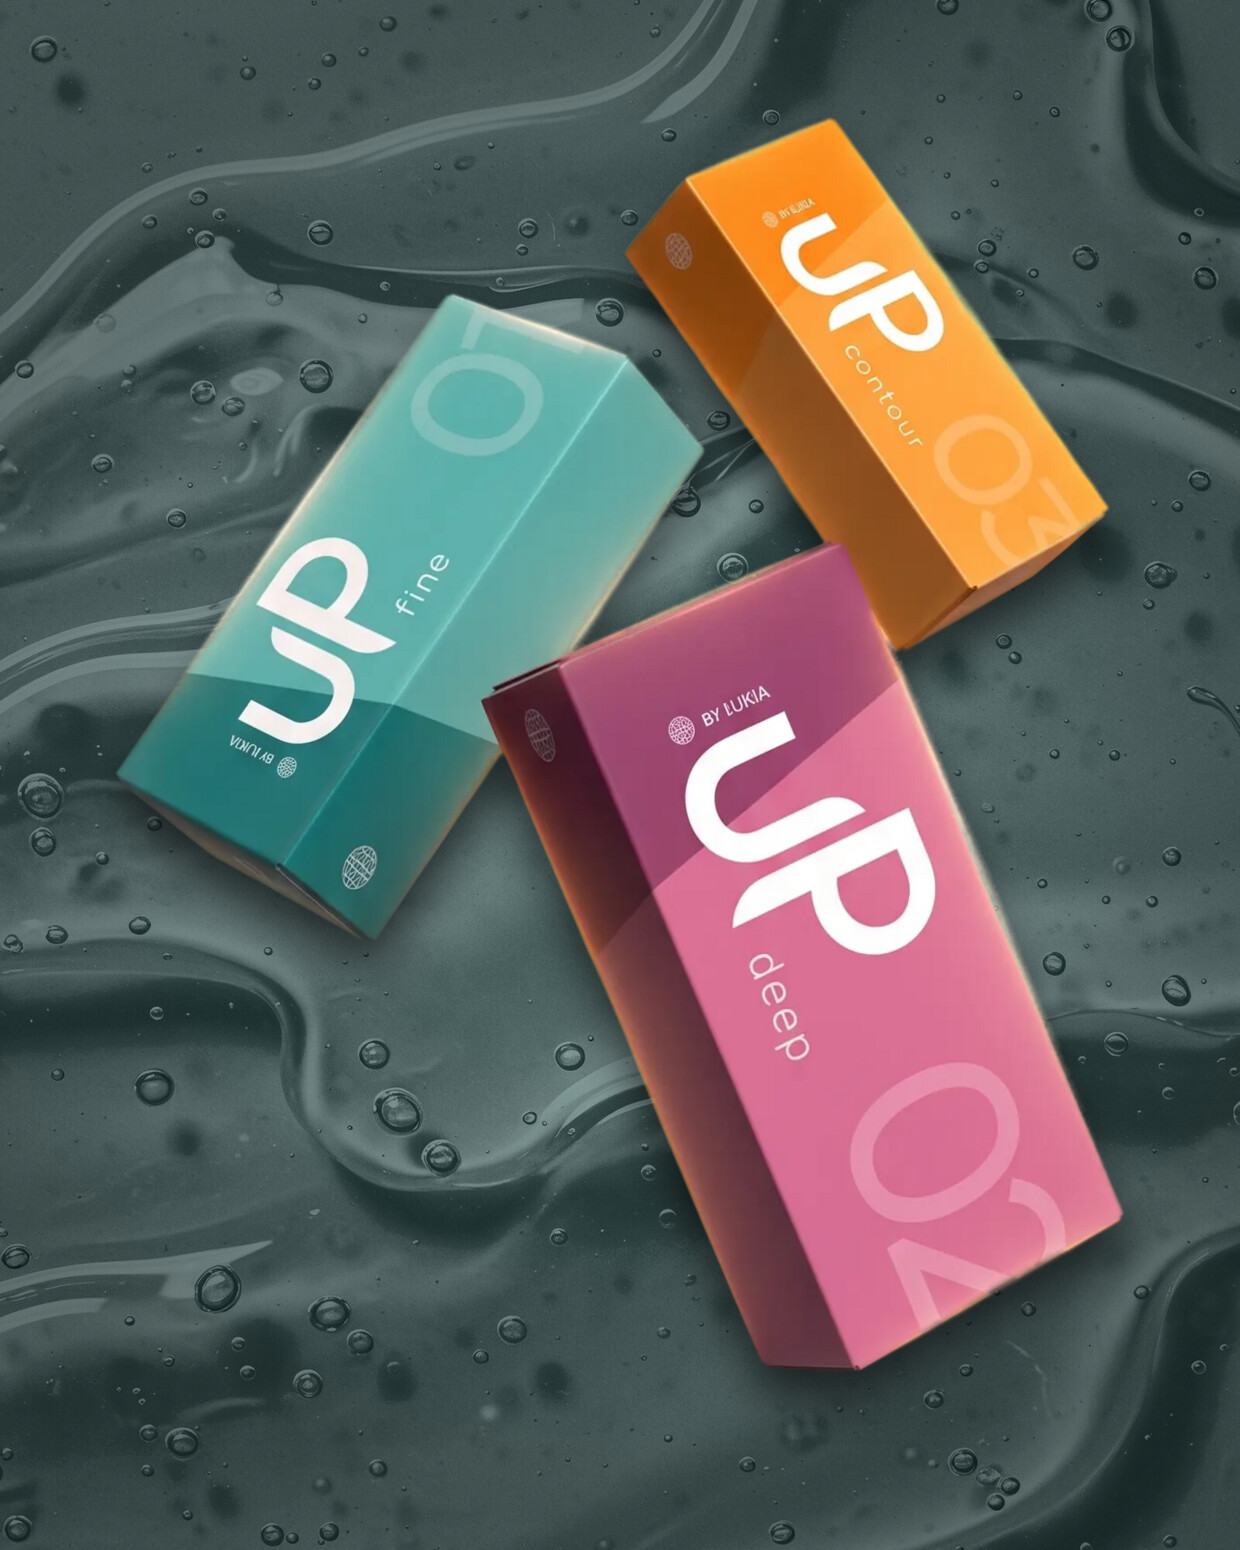
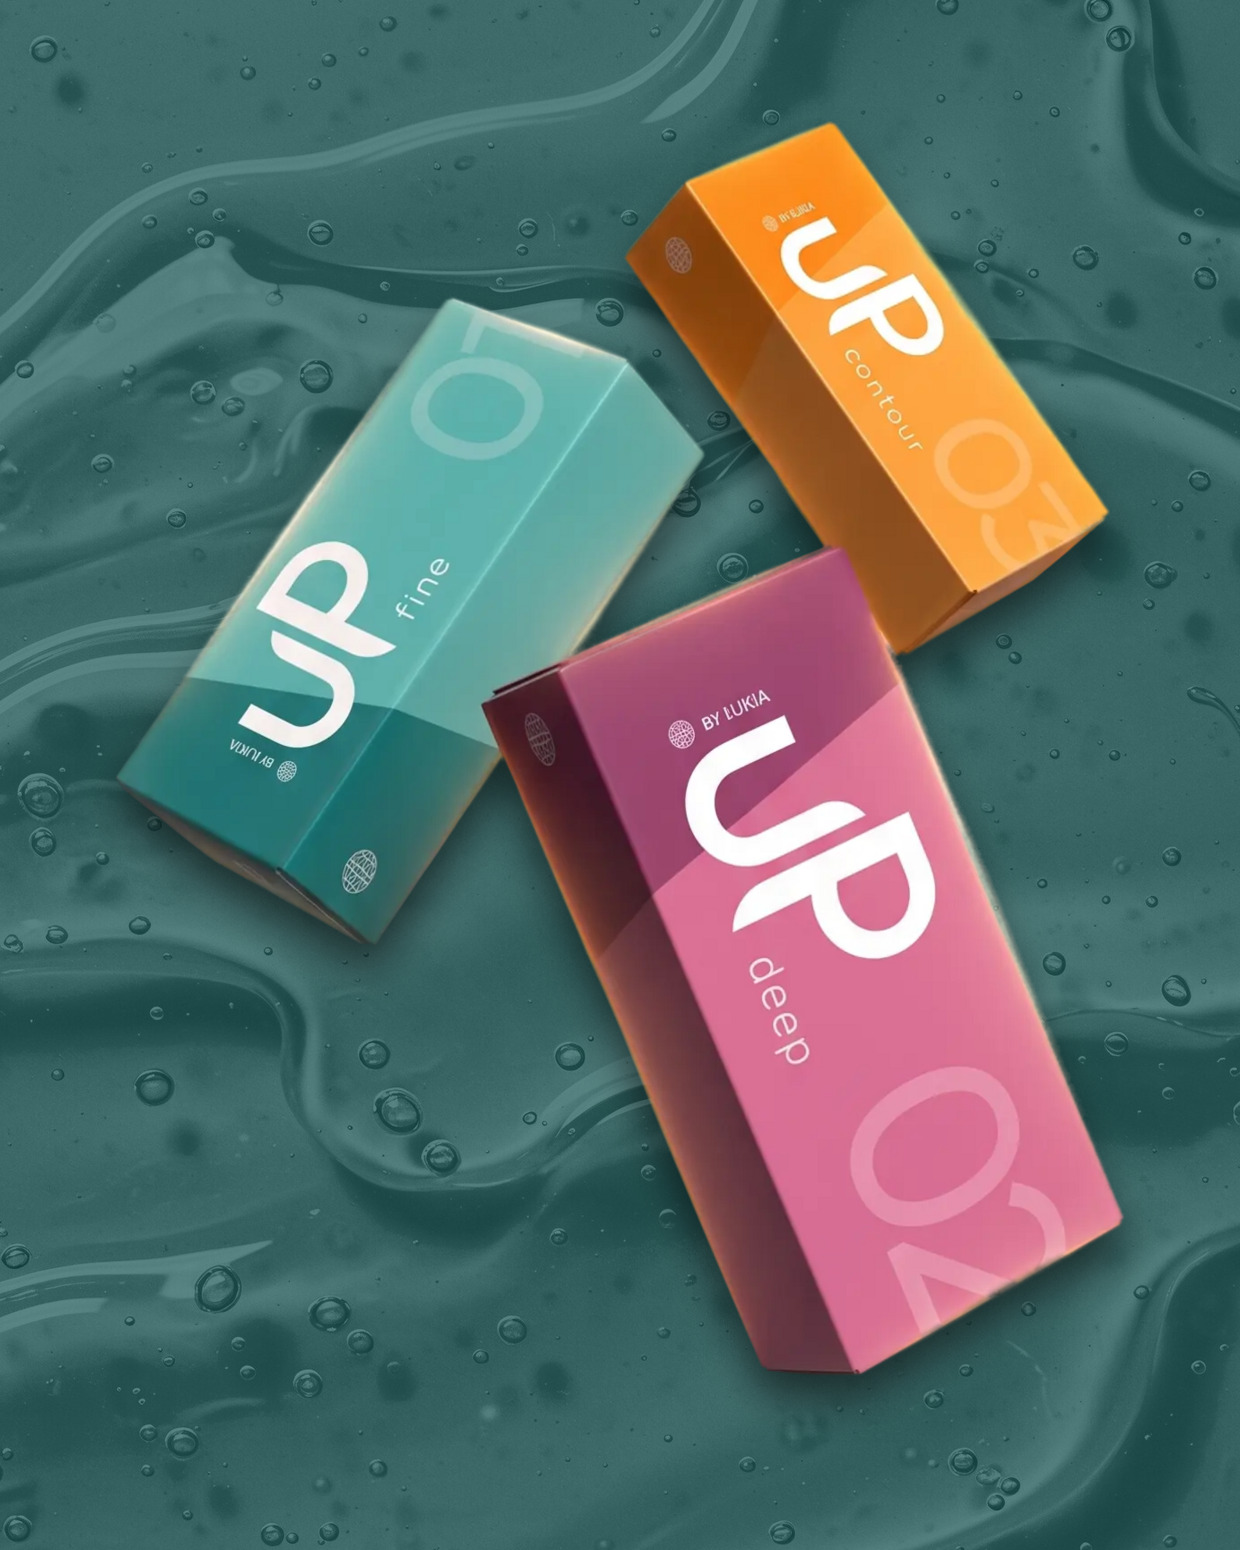
UP Facial: Tecnologia R² em 2 camadas — gel teal (tom do hero) + cutout intacto por cima, sem tratamento pós-fusão (corrige card cinza) + bump v28 — 86ah2xyqw

diff --git a/index.html b/index.html
@@ -31,7 +31,7 @@
 <link href="https://fonts.googleapis.com/css2?family=Fraunces:ital,opsz,wght@0,9..144,300;0,9..144,400;0,9..144,500;0,9..144,600;1,9..144,300;1,9..144,400&display=swap" rel="stylesheet">
 <link rel="preload" as="font" type="font/woff2" href="assets/fonts/GothamBook.woff2" crossorigin>
 
-<link rel="stylesheet" href="style.css?v=27">
+<link rel="stylesheet" href="style.css?v=28">
 
   <!-- Tracking global ILIKIA/AICONIQ - Pixel + GA4 + CAPI (server-side) via gateway -->
   <script>window.__TRK__={brand:'ilikia',pixelId:'666277432116339',ga4Id:'',collect:'https://track-ilikia.koko.ag/collect'};</script>
@@ -48,7 +48,7 @@
     <a href="#" class="nav-logo" aria-label="ILIKIA · UP Facial">
       <img src="assets/images/logo-ilikia-std.svg" alt="ILIKIA" class="nav-logo-ilikia">
       <span class="nav-logo-sep"></span>
-      <img src="assets/images/logo-up-facial-deitada.png?v=27" alt="UP Facial" class="nav-logo-up">
+      <img src="assets/images/logo-up-facial-deitada.png?v=28" alt="UP Facial" class="nav-logo-up">
     </a>
     <div class="nav-links">
       <a href="#linha" class="nav-link">A Linha</a>
@@ -103,7 +103,7 @@
       <a href="#linha" class="btn-primary">Quero conhecer a linha completa</a>
     </div>
     <div class="hero-art" aria-hidden="true">
-      <img class="hero-prod" src="assets/images/hero-produtos-cut.webp?v=27" alt=""
+      <img class="hero-prod" src="assets/images/hero-produtos-cut.webp?v=28" alt=""
            decoding="async" fetchpriority="high">
     </div>
   </div>
@@ -178,7 +178,7 @@
         <!-- 18/07 (Mari 18:11): imagem oficial da Lívia (cena-5, os 3 produtos juntos) em ALTA
              no lugar do vídeo/poster antigo (baixa qualidade). O vídeo hero.mp4 fica guardado
              no repo (assets/videos) — pronto se quiserem movimento aqui depois. -->
-        <img class="s2-kv s2-kv-cena" src="assets/images/tecnologia-r2-card.jpg?v=27" alt="Linha UP: UP Fine, UP Deep e UP Contour" loading="lazy" decoding="async">
+        <img class="s2-kv s2-kv-cena" src="assets/images/tecnologia-r2-card.jpg?v=28" alt="Linha UP: UP Fine, UP Deep e UP Contour" loading="lazy" decoding="async">
       </div>
     </div>
   </div>
@@ -216,13 +216,13 @@
 
       <div class="hover-slider-images reveal">
         <div class="slide-image slide-fine" data-slide="0" data-active="true">
-          <img src="assets/images/up-fine.png?v=27" alt="UP Fine, áreas de aplicação">
+          <img src="assets/images/up-fine.png?v=28" alt="UP Fine, áreas de aplicação">
         </div>
         <div class="slide-image slide-deep" data-slide="1">
-          <img src="assets/images/up-deep.png?v=27" alt="UP Deep, áreas de aplicação">
+          <img src="assets/images/up-deep.png?v=28" alt="UP Deep, áreas de aplicação">
         </div>
         <div class="slide-image slide-contour" data-slide="2">
-          <img src="assets/images/up-contour.png?v=27" alt="UP Contour, áreas de aplicação">
+          <img src="assets/images/up-contour.png?v=28" alt="UP Contour, áreas de aplicação">
         </div>
       </div>
 
@@ -617,7 +617,7 @@
         <div class="footer-logo-pair">
           <img class="footer-product-logo" src="assets/images/logo-ilikia-std.svg" alt="ILIKIA">
           <span class="footer-logo-sep"></span>
-          <img class="footer-product-logo" src="assets/images/logo-up-facial-deitada.png?v=27" alt="UP Facial">
+          <img class="footer-product-logo" src="assets/images/logo-up-facial-deitada.png?v=28" alt="UP Facial">
         </div>
         <p class="footer-description">
           Material técnico-científico destinado exclusivamente a profissionais
@@ -676,7 +676,7 @@
   </div>
 </footer>
 
-<script src="script.js?v=27"></script>
+<script src="script.js?v=28"></script>
   <!-- ===== Aviso de cookies (modelo opt-out): tracking carrega por padrao; so para se "Recusar" ===== -->
   <style>
     #cookieBanner{position:fixed;left:0;right:0;bottom:0;z-index:99999;display:flex;gap:16px;align-items:center;justify-content:center;flex-wrap:wrap;padding:14px 20px;background:rgba(12,18,30,.95);backdrop-filter:blur(8px);-webkit-backdrop-filter:blur(8px);border-top:1px solid rgba(255,255,255,.14);color:#EEF2F8;font-family:system-ui,-apple-system,'Segoe UI',Roboto,sans-serif;box-shadow:0 -8px 30px rgba(0,0,0,.3);transform:translateY(110%);transition:transform .35s ease}

diff --git a/style.css b/style.css
@@ -2353,7 +2353,7 @@ html, body { overflow-x: clip; }
 .hero--gel::after { content: none; }
 .hero--gel .hero-bg-layer {
   position: absolute; inset: 0; z-index: 0;
-  background: url('assets/images/hero-bg-gel.jpg?v=27') center/cover no-repeat;
+  background: url('assets/images/hero-bg-gel.jpg?v=28') center/cover no-repeat;
 }
 /* degradê só p/ legibilidade do texto à esquerda — suave, sem emenda */
 .hero--gel .hero-bg-layer::after {
